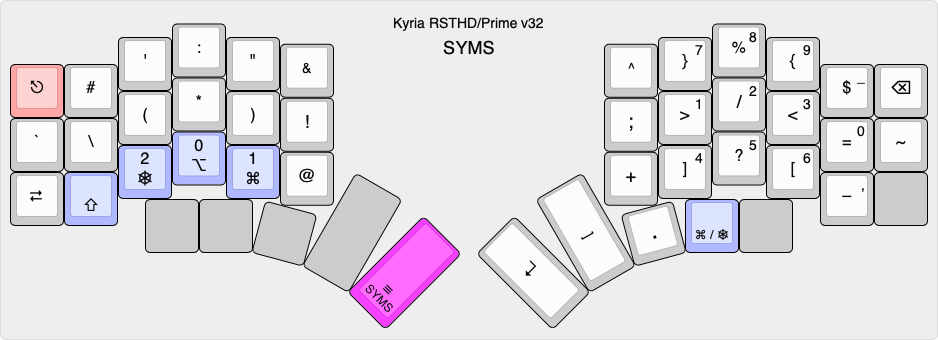
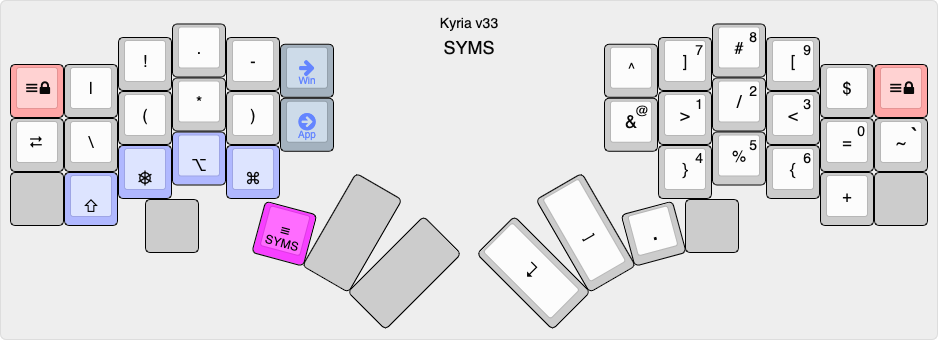
Updated documentation for v33

diff --git a/kyria-rsthd-prime/README.md b/kyria-rsthd-prime/README.md
@@ -1,23 +1,25 @@
-# Kyria RSTHD/Prime
+# Kyria RSTHD/Prime v33
 
 This is the keymap for my Kyria keyboard from [splitkb.com](https://splitkb.com). The alpha layout was based on [RSTHD](https://xsznix.wordpress.com/2016/05/16/introducing-the-rsthd-layout/) but is now heavily modified. It's optimized for minimized usage of the inner index column. Features in the code include runtime switching between Mac/Windows/Linux shortcuts and a custom implementation of "comborolls".
 
 <!--ts-->
    * [Overview](#overview)
-      * [Keyboard configuration](#keyboard-configuration)
       * [Goals](#goals)
+      * [Keyboard configuration](#keyboard-configuration)
    * [Layers](#layers)
       * [ALPHA](#alpha)
       * [SYMS](#syms)
       * [EDIT](#edit)
-      * [SNAP](#snap)
-      * [FUNC](#func)
       * [META](#meta)
+      * [FUNC](#func)
+      * [SNAP](#snap)
+      * [CURS and FLIP](#curs-and-flip)
    * [Other](#other)
       * [How to build](#how-to-build)
       * [RSTHD variants and similar layouts](#rsthd-variants-and-similar-layouts)
       * [Relevant articles and resources](#relevant-articles-and-resources)
       * [Acknowledgments](#acknowledgments)
+
 <!--te-->
 
 ## Overview
@@ -41,15 +43,19 @@ Typing speed and reducing the number of keys on the keyboard are not important g
 
 ### Keyboard configuration
 
-My Kyria uses all 6 columns on each hand. The left side has an OLED, an encoder, and four thumb keys. The right side has no OLED or encoder, and four thumb keys. The top two thumb keys on each side are not on the board.
+My Kyria uses all 6 columns on each hand. The left side has an OLED, an encoder, and three thumb keys. The right side has no OLED or encoder, and four thumb keys. The top two thumb keys on each side are not on the board.
 
 The controller is a Pro Micro and this keymap only just squeezes in.
 
+Currently this might compile or work properly only on a v1 keyboard.
+
 ## Layers
 
-There are a total of 6 layers. The first is the main alpha layer.
+There are a total of 8 layers. The first is the main alpha layer.
 
-The other layers are activated with a thumb key. All are hold-to-activate. Layer switching is done with custom code, so that a. shifted and custom keys can be emitted on the tap and b. so that the layer activates immediately for faster use of layer keys. See `layer_tap_toggle.c/h`.
+The other layers are activated with either a thumb or pinky. All are hold-to-activate. However the top corner keys are layer lock keys, which lock the layer on, or release it if it is locked. (A locked layer can also be released by pressing the layer key.)
+
+Layer switching is done with custom code, so that a. shifted and custom keys can be emitted on the tap and b. so that the layer activates immediately for faster access to the keys in the layer. See `layer_tap_toggle.c/h`.
 
 The layers have OS-specific shortcuts in various places. The platform (macOS, Windows, Linux) can be selected at run-time. For more info, see `os_shortcuts.h/c` and `os_shortcut_defs.h`. macOS shortcuts are pretty stable, Windows and Linux still need work.
 
@@ -57,15 +63,19 @@ The layers have OS-specific shortcuts in various places. The platform (macOS, Wi
 
 ![kyria-rsthd-prime-alpha](docs/images/kyria-rsthd-prime-alpha.png)
 
-[KLE link](http://www.keyboard-layout-editor.com/#/gists/69cf0f771159d920a34d882d696af6aa)
+[KLE link](http://www.keyboard-layout-editor.com/#/gists/fd8f2b651f6708b30a515ef4f236e277)
 
-The alpha layout aims to reduce lateral finger movement on the index finger. It performs very well in an [analyzer](docs/prime-on-the-analyzer.md), with low SFU (same finger utilization) stats and low travel distance.
+The alpha layout aims to reduce lateral finger movement on the index finger. In fact the lower key of the inner column has been completely removed in this version. A slightly older version performed very well in an [analyzer](docs/prime-on-the-analyzer.md), with low SFU (same finger utilization) stats and low travel distance.
 
 Some of the punctuation keys use non-standard shift mappings. See `shift_defs.h`.
 
+Except for Shift, there are no modifiers on the alpha layer. To access them, use the SYMS or EDIT layer, hold the modifiers down, then release the layer key. (This is a bit like Callum mods except it doesn't use a one-shot. It's not exactly how I wanted to do it, but it was easy to implement. I'll do a writeup on it some other time.)
+
 There are a number of combos on this layer, defined with a bunch of macros to reduce boilerplate. I have a userspace implementation called "[comboroll](docs/comborolls.md)" to avoid timing issues with QMK's overlapping combos. See `combo_defs.h` for combo definitions.
 
-With this key layout, I recommend at a minimum setting up a combo for ER on the right hand and SP on the left. If that works out, add ES, ED, and VE, then consider the rest of the "essential" combos in the [comborolls](docs/comborolls.md) note. For absolute minimum SFBs *without* combos, swap P and F.  For lower left pinky usage (but higher inner index), swap V and Z.
+This key layout works best with the combos or comborolls described at the link above. I recommend at a minimum setting up a combo for ER on the right hand. If that works out, add SP, ES, ED, and VE, then consider the rest of the combos in the [comborolls](docs/comborolls.md) note.
+
+For absolute minimum SFBs *without* combos, swap P and F.  For lower left pinky usage (but higher inner index), swap V and J.
 
 ### SYMS
 
@@ -73,11 +83,11 @@ Activated by the left thumb (hold).
 
 ![kyria-rsthd-prime-syms](docs/images/kyria-rsthd-prime-syms.png)
 
-[KLE link](http://www.keyboard-layout-editor.com/#/gists/0b079c6153a029c55cc8b5b7fbe701f2)
+[KLE link](http://www.keyboard-layout-editor.com/#/gists/1fe2cfee9a3cba7f4a122ce6527332ab)
 
-Unshifted, this layer contains most of the punctuation keys. I've arranged them so that many common (in programming) two-letter sequences can be typed with an inward roll. For example: `{% %} <% %> </ /> <? ?> => -> ~/`.
+Unshifted, this layer contains most of the punctuation keys. I've arranged them so that many common (in programming) two-letter sequences can be typed with an inward roll. For example: `{% %} <% %> </ /> => ~/`.
 
-The ten digits are accessed with Shift, akin to [Programmer Dvorak](https://www.kaufmann.no/roland/dvorak/), but arranged in a 3x3 numpad-like grid. The most frequent `0 1 2` can also be accessed as a chord with no shift on the left hand.
+The ten digits are accessed with Shift, akin to [Programmer Dvorak](https://www.kaufmann.no/roland/dvorak/), but arranged in a 3x3 numpad-like grid.
 
 ### EDIT
 
@@ -85,11 +95,11 @@ Activated by the right thumb (hold).
 
 ![kyria-rsthd-prime-edit](docs/images/kyria-rsthd-prime-edit.png)
 
-[KLE link](http://www.keyboard-layout-editor.com/#/gists/24a80f5840733d6384fd21e20e1f28a0)
+[KLE link](http://www.keyboard-layout-editor.com/#/gists/f6370a99eab0b9170893fc12354dc4c7)
 
 This layer extends the idea of platform-independent shortcuts to a complete layer. The navigation keys on the left have the standard cursor keys, home, end and page up/down.
 
-Modifiers are on the right hand. If one of the standard modifiers (Ctrl, Alt, Gui) is held, the emitted code is just the normal modifier + keycode. The special modifiers on the home row act as follows:
+Modifiers are on the right hand. If one of the standard modifiers (Shift, Ctrl, Alt, Gui) is held, the emitted code is just the normal modifier + keycode. The special modifiers on the home row act as follows:
 
 - **Delete** makes the action delete instead of moving.
 - **More** makes the key do "more" : left and right move a word left or right; home and end move to the start and end of a paragraph; up and down move a physical page up and down (mostly for Word); page up/down move to the start and end of the document.
@@ -98,39 +108,60 @@ Modifiers are on the right hand. If one of the standard modifiers (Ctrl, Alt, Gu
 
 All actions have auto-repeat. You can change the special modifiers while holding down a navigation key and the action changes accordingly.
 
-Select all, cut, copy and paste are chorded on the right hand top row, and keys to switch applications, windows and tabs are on the inner column.
-
-### SNAP
-
-Activated by the left thumb (hold).
-
-![kyria-rsthd-prime-snap](docs/images/kyria-rsthd-prime-snap.png)
-
-[KLE link](http://www.keyboard-layout-editor.com/#/gists/6aa3ef0fcb5c886dc105a94b62690fe0)
-
-So called because of the keys for window snapping, which snap to one of the screen halves or quadrants. The center key sets the window to the full vertical height. This works on macOS if [Rectangle](https://rectangleapp.com) is running; not really working on Windows and Linux yet.
-
-Three mouse buttons are available on the right thumb.
-
-Select all, cut, copy and paste are chorded on the left hand top row, and keys to switch applications, windows and tabs on the inner column.
-
-### FUNC
-Activated by pressing the SNAP layer key while holding Alt.
-
-![kyria-rsthd-prime-func](docs/images/kyria-rsthd-prime-func.png)
-
-[KLE link](http://www.keyboard-layout-editor.com/#/gists/e09a2e00f963d27b25cdaf5962b9cb7f)
-
-This layer contains function keys on the right hand, arranged roughly the same as the numpad. It also contains the keys that switch between macOS, Windows and Linux shortcuts.
+Select all, cut, copy and paste are chorded on the right hand top row.
 
 ### META
-Activated by the right thumb (hold).
+Activated by either pinky (hold).
 
 ![kyria-rsthd-prime-meta](docs/images/kyria-rsthd-prime-meta.png)
 
-[KLE link](http://www.keyboard-layout-editor.com/#/gists/c3f3f925be48f9c67de27b1e3b21ee37)
+[KLE link](http://www.keyboard-layout-editor.com/#/gists/0c14a73c58276dd44af1fd28eef638b6)
 
 This layer contains common shortcut keys. They are mostly arranged according to the letter used in the Mac/Windows shortcut. For example, the S key invokes Save (Cmd-S on Mac, Ctrl-S on Windows). However, the mapping is not always that straightforward (e.g. Cmd-Q on Mac and Alt-F4 on Windows), hence the need for a dedicated layer.
+
+This layer is also how the FUNC and SNAP layers are accessed.
+
+
+### FUNC
+
+Activated by the left thumb from the META layer (hold).
+
+![kyria-rsthd-prime-func](docs/images/kyria-rsthd-prime-func.png)
+
+[KLE link](http://www.keyboard-layout-editor.com/#/gists/f449a968f9a64c6ebeebe3ff4b5ee3c6)
+
+This layer contains function keys on the right hand, arranged roughly the same as the numpad. It also contains the keys that switch between macOS, Windows and Linux shortcuts.
+
+Three mouse buttons are available on the right thumb.
+
+### SNAP
+
+Activated by the right thumb from the META layer (hold).
+
+![kyria-rsthd-prime-snap](docs/images/kyria-rsthd-prime-snap.png)
+
+[KLE link](http://www.keyboard-layout-editor.com/#/gists/6b8a2ef2ab72df3c36839a2a106f6303)
+
+So called because of the keys for window snapping, which snap to one of the screen halves or quadrants. The center key sets the window to the full vertical height. This works on macOS if [Rectangle](https://rectangleapp.com) is running; not really working on Windows and Linux yet.
+
+Three mouse buttons are available on the left thumb.
+
+The encoder is used to control the backlight LEDs and OLED brightness (depending on which modifier is held.)
+
+### CURS and FLIP
+
+Activated by the right thumb (hold).
+
+![kyria-rsthd-prime-curs](docs/images/kyria-rsthd-prime-curs.png)
+
+[KLE link](http://www.keyboard-layout-editor.com/#/gists/5b6ce99346e3a8f9fffa5e4b39318664)
+
+![kyria-rsthd-prime-flip](docs/images/kyria-rsthd-prime-flip.png)
+
+[KLE link](http://www.keyboard-layout-editor.com/#/gists/8474e615b698442e7567f966f6e6c8df)
+
+One-hand cursor diamond and flippable alpha keys. The alpha keys are for navigation in the macOS finder.
+
 
 ## Other
 

diff --git a/kyria-rsthd-prime/docs/comborolls.md b/kyria-rsthd-prime/docs/comborolls.md
@@ -39,7 +39,7 @@ If you have a "rolling" style of typing, you may find that combos tend to interr
 
 Recently, it's been possible in QMK to specify that the trigger keys must be pressed in order. In this case, and if the time delay is extended to 150 ms, the keys can be "rolled". The time delay is long enough that you don't have to try to press them at the same time, and the combo triggers if you press the second key before releasing the first. This is what I call a "comboroll". They could be either inward or outward.
 
-There are some issues in doing this in QMK, so for now I am using a custom implementation. In either case, it's led to a more methodical approach to placing combos in a keymap:
+There are some issues in doing this in QMK, so I am using a custom implementation. In either case, it's led to a more methodical approach to placing combos in a keymap:
 
 - All combos have two trigger keys only.
 - Combos with both triggers on one hand are an inward comboroll.
@@ -69,13 +69,13 @@ For a second set, also consider rolls that jump a row.
 
 ### Filter the candidates
 
-Now filter the initial candidates by looking at the underlying letters. The simple method is to exclude any bigrams that occur with more than a certain frequency. Using the numbers in the bigram matrix of [Norvig's analysis](http://norvig.com/mayzner.html), my threshold seems to be 0.02%.
+Now filter the initial candidates by looking at the underlying letters. The simple method is to exclude any bigrams that occur with more than a certain frequency. Using the numbers in the bigram matrix of [Norvig's analysis](http://norvig.com/mayzner.html), my threshold seems to be 0.02%, which seems to be a good place to start. However I have also removed bigrams with lower occurrence, such as YN, which just seems to be in a lot of words I type, like *dynamic* and *sync*.
 
-Here is my layout, which I'll use for the examples:
+Here is my key layout, which I'll use for the examples:
 
 ![](images/comboroll/kyria-rsthd-prime-letters.png)
 
-In my layout, any rolls involving the Shift keys are also filtered out, because my implementation of comborolls doesn't work with one-shot shift.
+In my layout, any rolls involving the Shift keys are also filtered out, because my implementation of comborolls doesn't work with shift.
 
 Here are my same-row roll candidates after filtering:
 
@@ -100,7 +100,7 @@ I'll explain how to identify combos with the examples below. For now, here are s
 
 - Place a combo so that a common following letter forms a three-roll. This only works with strong locations.
 
-- If a combo is commonly followed by particular letters, consider making it a two-hand combo, as it's typically easier to roll a key on one hand with a following key than it is to roll a pair of keys with a following key on the same hand.
+- If a combo is commonly followed by particular letters, it's sometimes better as a two-hand combo to make it easier to roll with a common subsequent key.
 
 Typically, I find that I initially place a combo using the first two criteria (consonent/vowel and mnemonic). However, after using them for a while, they get moved in order to improve typing flow (the remaining criteria). The examples below show the final locations.
 
@@ -127,13 +127,13 @@ SFUs (same-finger utilization) aka SFBs (same-finger bigrams) are generally cons
 
 "Pinballing" refers to more than one reversal of direction on the same hand. In this layout, for example, HERE has two reversals of direction on the left hand (the thumb is considered a finger for this purpose). This can be mitigated by changing the cadence of typing: rather than type as a single sequence, type as two rolls: HE - RE.
 
-However, if ER is made a comboroll on the right hand, then the pinballing is instantly converted into a simple hand swap: H (left) - ER (right) - E (left). ED and ES are also useful anti-pinballing combos. VE is a late entry that turned out to be a surprisingly common bigram that solves pinballing for words like EVER.
+However, if ER is made a comboroll on the right hand, then the pinballing is instantly converted into a simple hand swap: H (left) - ER (right) - E (left). ED and ES are also useful anti-pinballing combos. VE is a late entry that turned out to be a surprisingly common bigram that solves pinballing for words like EVER. ES has the interesting property of reducing occurrences of the common SS double letter by about half.
 
-ES  has the interesting property of reducing occurrences of the common SS double letter by about half.
+There is also some pinballing between the MNL column and the vowels to the right of it. The M comboroll on the left hand reduces this and also takes care of the awkward MY bigram.
 
 #### Awkward bigrams and trigrams
 
-Combos for awkward bigrams and trigrams move the typed keys to a more comfortable location. CR and PR are good examples: pinky and ring finger with a row jump change to a same-row roll. QU is more fluid with a combo when you consider that it's always followed by a vowel. The others I have are YOU (double row skip), MY (adjacent with double row) and GHT (reversal with a row skip).
+Combos for awkward bigrams and trigrams move the typed keys to a more comfortable location. CR and PR are good examples: pinky and ring finger with a row jump change to a same-row roll. QU is more fluid with a combo when you consider that it's always followed by a vowel. The others I have are YOU (double row skip) and GHT (reversal with a row skip).
 
 ### Word endings
 
@@ -144,7 +144,7 @@ From here on, finding combos is more optional. This group is common word endings
 
 ### Typing comfort
 
-My layout is driven by the desire to minimize use of the inner index column. This can be further reduced with combos. So there are a number of combos involving B and K. I also added some involving F. The FR, FT and BR combos change an awkward outward roll into a more comfortable inward roll.
+My layout is driven by the desire to minimize use of the inner index column. This can be further reduced with combos. So there are a number of combos involving B and K. These rolls and the two-hand combos (below) should reduce the usage of B and K by about half. The FR, FT and BR combos change an awkward outward roll into a more comfortable inward roll.
 
 ![](images/comboroll/comboroll-comfort.png)
 
@@ -152,7 +152,7 @@ Someone who doesn't have an issue with the inner index column might instead choo
 
 ### The full set of comborolls
 
-This is my full set of comborolls. Of the candidate locations, all but three have had combos assigned to them.
+This is my full set of comborolls. Of the candidate locations, most have had combos assigned to them.
 
 ![](images/comboroll/comboroll-rolls.png)
 
@@ -176,6 +176,8 @@ I've added *outward* rolls on the left hand for comma and period, to provide an 
 
 There are four vertical combos for anti-SFU. These are a little tricky to use and I'm still getting used to them.
 
+FInally, Z is a vertical combo. This is a good location, as it's most commonly followed by E, which makes for an easy roll with the left thumb.
+
 ## Discussion
 
 ### On typing with comborolls
@@ -190,7 +192,7 @@ When identifying combos, longer is not necessarily better. It might seem that sp
 
 It's tempting to keep adding combos. However, it becomes harder to remember them and train yourself to use them as the number gets higher.
 
-My ability to remember and use combos starts to hit its limits at about three dozen (on the alpha layer). There are 28 locations in my keymap for comborolls, of which 25 are currently used, plus 8 two-hand combos and a few special cases (verticals and outward rolls).
+My ability to remember and use combos starts to hit its limits at about three dozen (on the alpha layer).
 
 ### Implications for layout design
 
